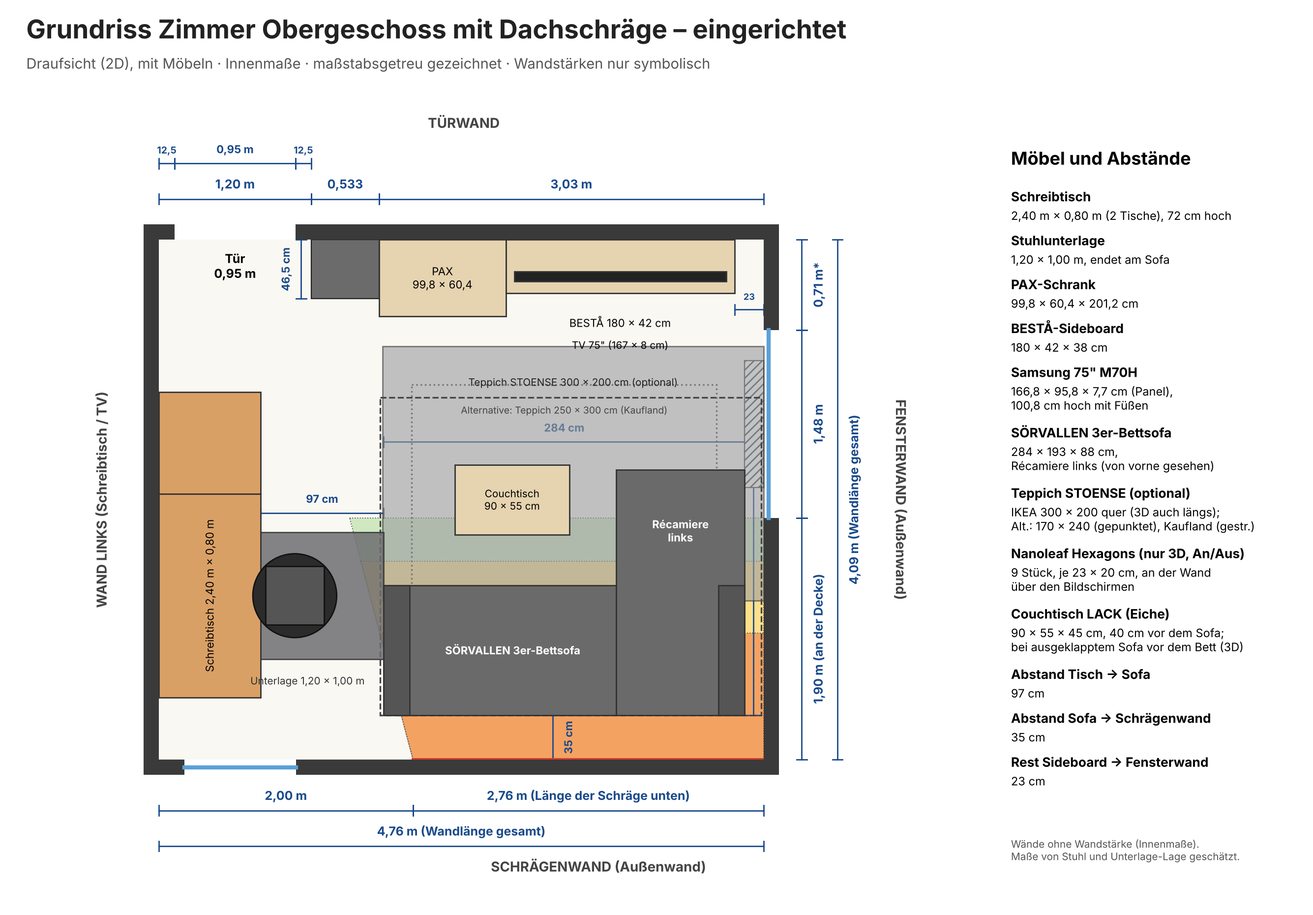
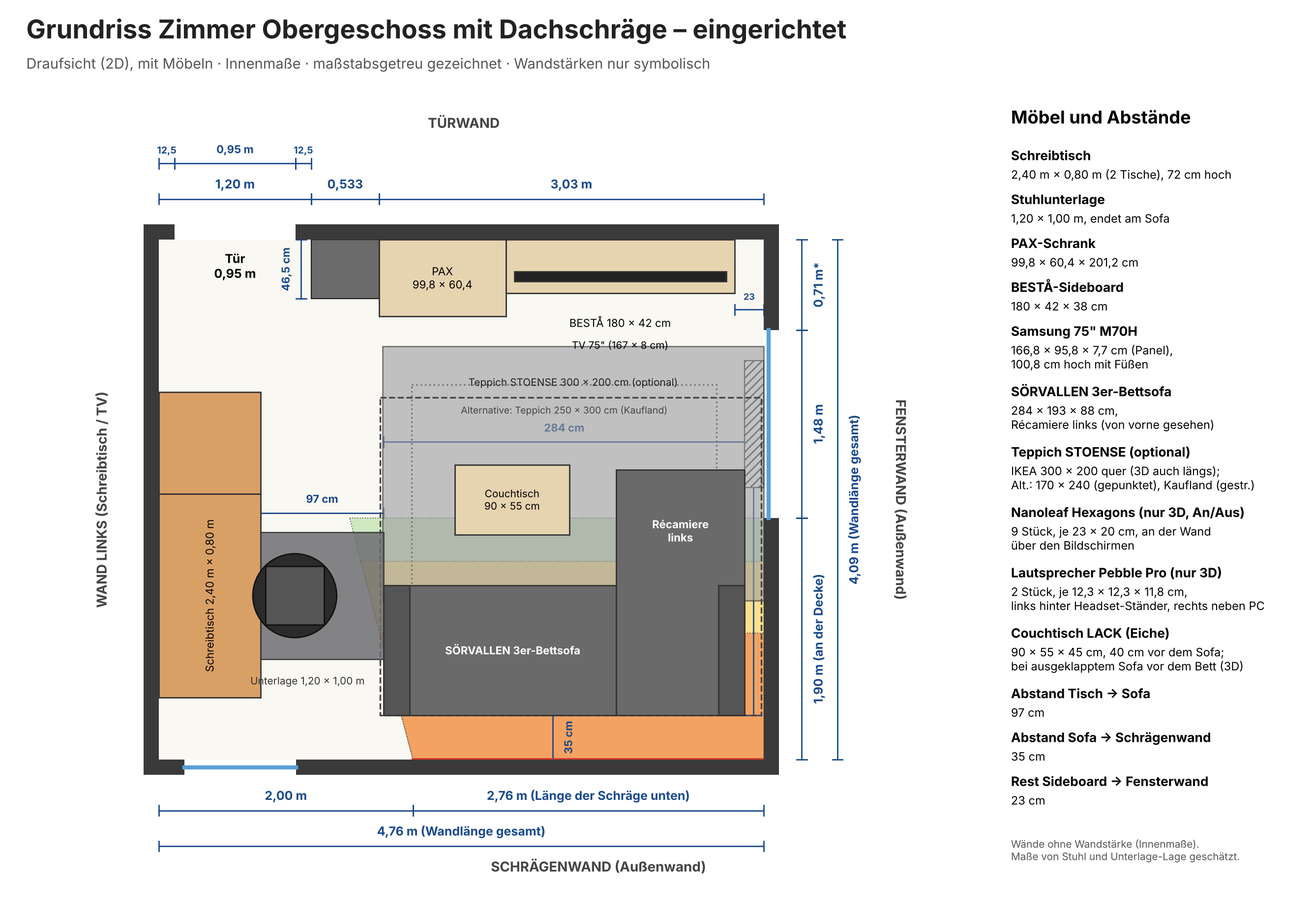
Creative Pebble Pro Lautsprecher (2 Stück, rote LED) auf dem Schreibtisch; Nanoleaf-Muster seitenrichtig gespiegelt; Plan-Legende ergänzt
Claude-Session: https://claude.ai/code/session_01Hf3Bkowp5NFKLbRns8Nosg

Changed region(s): [[0.7461, 0.1247, 0.9637, 0.8731], [0.9015, 0.1871, 0.9326, 0.2183]]

diff --git a/eingerichtet_mobil.html b/eingerichtet_mobil.html
@@ -78,7 +78,7 @@ a.home:hover,a.home:focus-visible{border-color:var(--accent);outline:none}
 <div class="bar" id="cats"><span class="lab">Maße zeigen für:</span></div>
 <div id="stage"><canvas id="c"></canvas>
 <div id="legend"><div><i style="background:#f4a261"></i>unter 1,50 m</div><div><i style="background:#ffe08a"></i>1,50 – 2,00 m</div><div><i style="background:#cfe8c0"></i>2,00 – 2,30 m</div></div></div>
-<footer><details><summary>Hinweise</summary>* geschätzt: Raumhöhe 2,30 m, Aufteilung des Schreibtischs (1,60 m + 0,80 m), Form der Tischbeine, Sideboard steht auf dem Boden (nicht aufgehängt), Breite des Fernseher-Rückgehäuses (Fernseher 75" steht auf seinen Standfüßen (5 cm), Gesamthöhe 138,8 cm, Lage des Panels auf den Füßen), Maße von Stuhl und Position der Unterlage, Aufbau des Sofas (Récamiere-Breite ≈ 1,02 m, Polster vereinfacht; bei ausgeklapptem Sofa Lage und Höhe der Schlaffläche), Teppiche (Lage und Größe, Ausrichtung des 200-×-300-cm-Teppichs), Nanoleaf-Hexagons (Muster nach deiner Vorlage, Farben nur beispielhaft, Fugen zwischen den Panels vereinfacht), Couchtisch (Plattendicke 5 cm, Beinquerschnitt 5 cm, Höhe der Ablage; Standort vor dem Sofa bzw. vor dem ausgeklappten Sofa), Fensterhöhen, Verlauf der Diagonale an der Schräge. Wände ohne Wandstärke (Innenmaße). Von außen sind Wände und Decke durchsichtig (Schnittmodell).</details></footer>
+<footer><details><summary>Hinweise</summary>* geschätzt: Raumhöhe 2,30 m, Aufteilung des Schreibtischs (1,60 m + 0,80 m), Form der Tischbeine, Sideboard steht auf dem Boden (nicht aufgehängt), Breite des Fernseher-Rückgehäuses (Fernseher 75" steht auf seinen Standfüßen (5 cm), Gesamthöhe 138,8 cm, Lage des Panels auf den Füßen), Maße von Stuhl und Position der Unterlage, Aufbau des Sofas (Récamiere-Breite ≈ 1,02 m, Polster vereinfacht; bei ausgeklapptem Sofa Lage und Höhe der Schlaffläche), Teppiche (Lage und Größe, Ausrichtung des 200-×-300-cm-Teppichs), Lautsprecher (Größe 12,3 × 12,3 × 11,8 cm, Position), Nanoleaf-Hexagons (Muster nach deiner Vorlage, Farben nur beispielhaft, Fugen zwischen den Panels vereinfacht), Couchtisch (Plattendicke 5 cm, Beinquerschnitt 5 cm, Höhe der Ablage; Standort vor dem Sofa bzw. vor dem ausgeklappten Sofa), Fensterhöhen, Verlauf der Diagonale an der Schräge. Wände ohne Wandstärke (Innenmaße). Von außen sind Wände und Decke durchsichtig (Schnittmodell).</details></footer>
 <script src="three.min.js"></script><script>window.THREE||document.write('<script src="https://cdnjs.cloudflare.com/ajax/libs/three.js/r128/three.min.js"><\/script>')</script>
 <script>
 (function(){
@@ -501,15 +501,32 @@ cat='tisch';
   var fr=cv(256,300,function(g,w,h){g.fillStyle='#0b0b0d';g.fillRect(0,0,w,h);g.fillStyle='#17171b';for(var i=0;i<h;i+=8){g.fillRect(0,i,w,3);}g.fillStyle='#ff1a1a';g.fillRect(w-10,0,6,h);g.fillRect(0,0,4,h);});
   var fm=new THREE.Mesh(new THREE.PlaneGeometry(2*hx,cz1-cz0),new THREE.MeshBasicMaterial({map:fr}));fm.rotation.y=Math.PI;fm.position.set(0,(cz0+cz1)/2,-hy-0.001);pg.add(fm);
 })();
+// Lautsprecher Creative Pebble Pro (2 Stück), je 123 x 123 x 118 mm laut PC-Welt; rote LED im Fußring. Links hinter der Headset-Ladestation, rechts zwischen PC und rechtem Bildschirm.
+(function(){
+  var DZ=0.72,RS=0.0615;
+  function spk(x,y){
+    var g=new THREE.Group();
+    var body=new THREE.Mesh(new THREE.SphereGeometry(RS,24,16),new THREE.MeshLambertMaterial({color:0x121214}));body.scale.set(1,0.96,1);body.position.y=0.057;g.add(body);
+    var ax=new THREE.Group();ax.position.y=0.057;ax.rotation.z=-Math.PI/4;g.add(ax);   // Blickrichtung: zum Nutzer, schräg nach oben
+    function part(geo,col,h){var m=new THREE.Mesh(geo,new THREE.MeshLambertMaterial({color:col}));m.position.y=h;ax.add(m);}
+    part(new THREE.CylinderGeometry(0.044,0.047,0.006,28),0x26262a,RS-0.003);   // Blende
+    part(new THREE.CylinderGeometry(0.030,0.026,0.004,28),0xc98f6a,RS+0.0005);   // Membran (kupferfarben)
+    part(new THREE.CylinderGeometry(0.010,0.010,0.005,16),0xe3b690,RS+0.0025);   // Kappe
+    var ring=new THREE.Mesh(new THREE.TorusGeometry(0.046,0.0035,8,36),new THREE.MeshBasicMaterial({color:0xff2a2a}));ring.rotation.x=Math.PI/2;ring.position.y=0.004;g.add(ring);   // rote LED
+    var glow=new THREE.Mesh(new THREE.CircleGeometry(0.085,32),new THREE.MeshBasicMaterial({color:0xff2a2a,transparent:true,opacity:0.22}));glow.rotation.x=-Math.PI/2;glow.position.y=0.0015;g.add(glow);
+    g.position.copy(P(x,y,DZ));room.add(g);
+  }
+  spk(0.12,3.46);spk(0.13,2.12);
+})();
 cat='led';
 // Nanoleaf Shapes Ultra Black Hexagons (9 Stück), Muster nach Vorlage: je 23 x 20 cm (Spitze zu Spitze x Kante zu Kante), ca. 1 cm tief, an der Wand über den Bildschirmen
 var ledObjs=[],LEDLB=[];
 (function(){
   var R=0.1135,TH=0.010,SPX=0.1725,SPY=0.20,YC=2.80,ZC=1.90;
   var HEX=[[0,0,0x14141a],[1,0,0x5a2a98],[1,1,0x6a2fb0],[0,2,0x14141a],[2,1,0x9a3fd6],[3,0,0x6a5af0],[4,0,0x4a78ee],[5,-1,0x3fb4ea],[6,-1,0x2fe0c4]];
-  var y0=YC-6*SPX/2,side=new THREE.MeshLambertMaterial({color:0x0b0b0e});
+  var y0=YC+6*SPX/2,side=new THREE.MeshLambertMaterial({color:0x0b0b0e});
   HEX.forEach(function(h){
-    var q=h[0],r=h[1],y=y0+q*SPX,z=ZC-SPY*(r+((q&1)?0.5:0));
+    var q=h[0],r=h[1],y=y0-q*SPX,z=ZC-SPY*(r+((q&1)?0.5:0));
     var m=new THREE.Mesh(new THREE.CylinderGeometry(R,R,TH,6),[side,side,new THREE.MeshBasicMaterial({color:h[2]})]);
     m.rotation.z=Math.PI/2;m.position.copy(P(TH/2+0.001,y,z));room.add(m);ledObjs.push(m);
   });
@@ -518,11 +535,11 @@ var ledObjs=[],LEDLB=[];
   function s(a,b){v.push.apply(v,P(XL,a[0],a[1]).toArray());v.push.apply(v,P(XL,b[0],b[1]).toArray());}
   function hy(z,ya,yb){s([ya,z],[yb,z]);s([ya,z-0.04],[ya,z+0.04]);s([yb,z-0.04],[yb,z+0.04]);}
   function vz(yy,za,zb){s([yy,za],[yy,zb]);s([yy-0.04,za],[yy+0.04,za]);s([yy-0.04,zb],[yy+0.04,zb]);}
-  var yl=y0-0.115,yr=y0+6*SPX+0.115;
-  hy(1.33,yl,yr);vz(yr+0.07,1.40,2.20);hy(2.10,yr-0.23,yr);vz(y0+6*SPX,2.00,2.20);vz(2.33,1.17,1.40);
+  var yl=y0-6*SPX-0.115,yr=y0+0.115;
+  hy(1.33,yl,yr);vz(yl-0.07,1.40,2.20);hy(2.10,yl,yl+0.23);vz(y0-6*SPX,2.00,2.20);vz(3.27,1.17,1.40);
   var gd=new THREE.BufferGeometry();gd.setAttribute('position',new THREE.Float32BufferAttribute(v,3));
   room.add(new THREE.LineSegments(gd,new THREE.LineBasicMaterial({color:0xd2691e})));
-  LEDLB.push(['Nanoleaf Hexagons: 9 Stück, je 23 × 20 cm',0.05,y0+3*SPX,2.27],['Breite gesamt 126,5 cm',0.05,YC,1.36],['Höhe gesamt 80 cm (1,40 – 2,20 m über Boden)',0.05,yr+0.07,1.80],['23 cm',0.05,y0+6*SPX,2.135],['20 cm',0.05,y0+6*SPX,2.02],['23 cm bis Monitor',0.05,2.33,1.25]);
+  LEDLB.push(['Nanoleaf Hexagons: 9 Stück, je 23 × 20 cm',0.05,y0-3*SPX,2.27],['Breite gesamt 126,5 cm',0.05,YC,1.36],['Höhe gesamt 80 cm (1,40 – 2,20 m über Boden)',0.05,yl-0.07,1.80],['23 cm',0.05,y0-6*SPX,2.135],['20 cm',0.05,y0-6*SPX,2.02],['23 cm bis Monitor',0.05,3.27,1.25]);
 })();
 cat='raum';
 // Beschriftungen

diff --git a/interaktiv_mobil.html b/interaktiv_mobil.html
@@ -78,7 +78,7 @@ a.home:hover,a.home:focus-visible{border-color:var(--accent);outline:none}
 <div class="bar" id="cats"><span class="lab">Maße zeigen für:</span></div>
 <div id="stage"><canvas id="c"></canvas>
 <div id="legend"><div><i style="background:#f4a261"></i>unter 1,50 m</div><div><i style="background:#ffe08a"></i>1,50 – 2,00 m</div><div><i style="background:#cfe8c0"></i>2,00 – 2,30 m</div></div></div>
-<footer><details><summary>Hinweise</summary>* geschätzt: Raumhöhe 2,30 m, Aufteilung des Schreibtischs (1,60 m + 0,80 m), Form der Tischbeine, Sideboard steht auf dem Boden (nicht aufgehängt), Breite des Fernseher-Rückgehäuses (Fernseher 75" steht auf seinen Standfüßen (5 cm), Gesamthöhe 138,8 cm, Lage des Panels auf den Füßen), Maße von Stuhl und Position der Unterlage, Aufbau des Sofas (Récamiere-Breite ≈ 1,02 m, Polster vereinfacht; bei ausgeklapptem Sofa Lage und Höhe der Schlaffläche), Teppiche (Lage und Größe, Ausrichtung des 200-×-300-cm-Teppichs), Nanoleaf-Hexagons (Muster nach deiner Vorlage, Farben nur beispielhaft, Fugen zwischen den Panels vereinfacht), Couchtisch (Plattendicke 5 cm, Beinquerschnitt 5 cm, Höhe der Ablage; Standort vor dem Sofa bzw. vor dem ausgeklappten Sofa), Fensterhöhen, Verlauf der Diagonale an der Schräge. Wände ohne Wandstärke (Innenmaße). Von außen sind Wände und Decke durchsichtig (Schnittmodell).</details></footer>
+<footer><details><summary>Hinweise</summary>* geschätzt: Raumhöhe 2,30 m, Aufteilung des Schreibtischs (1,60 m + 0,80 m), Form der Tischbeine, Sideboard steht auf dem Boden (nicht aufgehängt), Breite des Fernseher-Rückgehäuses (Fernseher 75" steht auf seinen Standfüßen (5 cm), Gesamthöhe 138,8 cm, Lage des Panels auf den Füßen), Maße von Stuhl und Position der Unterlage, Aufbau des Sofas (Récamiere-Breite ≈ 1,02 m, Polster vereinfacht; bei ausgeklapptem Sofa Lage und Höhe der Schlaffläche), Teppiche (Lage und Größe, Ausrichtung des 200-×-300-cm-Teppichs), Lautsprecher (Größe 12,3 × 12,3 × 11,8 cm, Position), Nanoleaf-Hexagons (Muster nach deiner Vorlage, Farben nur beispielhaft, Fugen zwischen den Panels vereinfacht), Couchtisch (Plattendicke 5 cm, Beinquerschnitt 5 cm, Höhe der Ablage; Standort vor dem Sofa bzw. vor dem ausgeklappten Sofa), Fensterhöhen, Verlauf der Diagonale an der Schräge. Wände ohne Wandstärke (Innenmaße). Von außen sind Wände und Decke durchsichtig (Schnittmodell).</details></footer>
 <script src="three.min.js"></script><script>window.THREE||document.write('<script src="https://cdnjs.cloudflare.com/ajax/libs/three.js/r128/three.min.js"><\/script>')</script>
 <script>
 (function(){
@@ -501,15 +501,32 @@ cat='tisch';
   var fr=cv(256,300,function(g,w,h){g.fillStyle='#0b0b0d';g.fillRect(0,0,w,h);g.fillStyle='#17171b';for(var i=0;i<h;i+=8){g.fillRect(0,i,w,3);}g.fillStyle='#ff1a1a';g.fillRect(w-10,0,6,h);g.fillRect(0,0,4,h);});
   var fm=new THREE.Mesh(new THREE.PlaneGeometry(2*hx,cz1-cz0),new THREE.MeshBasicMaterial({map:fr}));fm.rotation.y=Math.PI;fm.position.set(0,(cz0+cz1)/2,-hy-0.001);pg.add(fm);
 })();
+// Lautsprecher Creative Pebble Pro (2 Stück), je 123 x 123 x 118 mm laut PC-Welt; rote LED im Fußring. Links hinter der Headset-Ladestation, rechts zwischen PC und rechtem Bildschirm.
+(function(){
+  var DZ=0.72,RS=0.0615;
+  function spk(x,y){
+    var g=new THREE.Group();
+    var body=new THREE.Mesh(new THREE.SphereGeometry(RS,24,16),new THREE.MeshLambertMaterial({color:0x121214}));body.scale.set(1,0.96,1);body.position.y=0.057;g.add(body);
+    var ax=new THREE.Group();ax.position.y=0.057;ax.rotation.z=-Math.PI/4;g.add(ax);   // Blickrichtung: zum Nutzer, schräg nach oben
+    function part(geo,col,h){var m=new THREE.Mesh(geo,new THREE.MeshLambertMaterial({color:col}));m.position.y=h;ax.add(m);}
+    part(new THREE.CylinderGeometry(0.044,0.047,0.006,28),0x26262a,RS-0.003);   // Blende
+    part(new THREE.CylinderGeometry(0.030,0.026,0.004,28),0xc98f6a,RS+0.0005);   // Membran (kupferfarben)
+    part(new THREE.CylinderGeometry(0.010,0.010,0.005,16),0xe3b690,RS+0.0025);   // Kappe
+    var ring=new THREE.Mesh(new THREE.TorusGeometry(0.046,0.0035,8,36),new THREE.MeshBasicMaterial({color:0xff2a2a}));ring.rotation.x=Math.PI/2;ring.position.y=0.004;g.add(ring);   // rote LED
+    var glow=new THREE.Mesh(new THREE.CircleGeometry(0.085,32),new THREE.MeshBasicMaterial({color:0xff2a2a,transparent:true,opacity:0.22}));glow.rotation.x=-Math.PI/2;glow.position.y=0.0015;g.add(glow);
+    g.position.copy(P(x,y,DZ));room.add(g);
+  }
+  spk(0.12,3.46);spk(0.13,2.12);
+})();
 cat='led';
 // Nanoleaf Shapes Ultra Black Hexagons (9 Stück), Muster nach Vorlage: je 23 x 20 cm (Spitze zu Spitze x Kante zu Kante), ca. 1 cm tief, an der Wand über den Bildschirmen
 var ledObjs=[],LEDLB=[];
 (function(){
   var R=0.1135,TH=0.010,SPX=0.1725,SPY=0.20,YC=2.80,ZC=1.90;
   var HEX=[[0,0,0x14141a],[1,0,0x5a2a98],[1,1,0x6a2fb0],[0,2,0x14141a],[2,1,0x9a3fd6],[3,0,0x6a5af0],[4,0,0x4a78ee],[5,-1,0x3fb4ea],[6,-1,0x2fe0c4]];
-  var y0=YC-6*SPX/2,side=new THREE.MeshLambertMaterial({color:0x0b0b0e});
+  var y0=YC+6*SPX/2,side=new THREE.MeshLambertMaterial({color:0x0b0b0e});
   HEX.forEach(function(h){
-    var q=h[0],r=h[1],y=y0+q*SPX,z=ZC-SPY*(r+((q&1)?0.5:0));
+    var q=h[0],r=h[1],y=y0-q*SPX,z=ZC-SPY*(r+((q&1)?0.5:0));
     var m=new THREE.Mesh(new THREE.CylinderGeometry(R,R,TH,6),[side,side,new THREE.MeshBasicMaterial({color:h[2]})]);
     m.rotation.z=Math.PI/2;m.position.copy(P(TH/2+0.001,y,z));room.add(m);ledObjs.push(m);
   });
@@ -518,11 +535,11 @@ var ledObjs=[],LEDLB=[];
   function s(a,b){v.push.apply(v,P(XL,a[0],a[1]).toArray());v.push.apply(v,P(XL,b[0],b[1]).toArray());}
   function hy(z,ya,yb){s([ya,z],[yb,z]);s([ya,z-0.04],[ya,z+0.04]);s([yb,z-0.04],[yb,z+0.04]);}
   function vz(yy,za,zb){s([yy,za],[yy,zb]);s([yy-0.04,za],[yy+0.04,za]);s([yy-0.04,zb],[yy+0.04,zb]);}
-  var yl=y0-0.115,yr=y0+6*SPX+0.115;
-  hy(1.33,yl,yr);vz(yr+0.07,1.40,2.20);hy(2.10,yr-0.23,yr);vz(y0+6*SPX,2.00,2.20);vz(2.33,1.17,1.40);
+  var yl=y0-6*SPX-0.115,yr=y0+0.115;
+  hy(1.33,yl,yr);vz(yl-0.07,1.40,2.20);hy(2.10,yl,yl+0.23);vz(y0-6*SPX,2.00,2.20);vz(3.27,1.17,1.40);
   var gd=new THREE.BufferGeometry();gd.setAttribute('position',new THREE.Float32BufferAttribute(v,3));
   room.add(new THREE.LineSegments(gd,new THREE.LineBasicMaterial({color:0xd2691e})));
-  LEDLB.push(['Nanoleaf Hexagons: 9 Stück, je 23 × 20 cm',0.05,y0+3*SPX,2.27],['Breite gesamt 126,5 cm',0.05,YC,1.36],['Höhe gesamt 80 cm (1,40 – 2,20 m über Boden)',0.05,yr+0.07,1.80],['23 cm',0.05,y0+6*SPX,2.135],['20 cm',0.05,y0+6*SPX,2.02],['23 cm bis Monitor',0.05,2.33,1.25]);
+  LEDLB.push(['Nanoleaf Hexagons: 9 Stück, je 23 × 20 cm',0.05,y0-3*SPX,2.27],['Breite gesamt 126,5 cm',0.05,YC,1.36],['Höhe gesamt 80 cm (1,40 – 2,20 m über Boden)',0.05,yl-0.07,1.80],['23 cm',0.05,y0-6*SPX,2.135],['20 cm',0.05,y0-6*SPX,2.02],['23 cm bis Monitor',0.05,3.27,1.25]);
 })();
 cat='raum';
 // Beschriftungen

diff --git a/eingerichtet.html b/eingerichtet.html
@@ -61,7 +61,7 @@ a.home:hover,a.home:focus-visible{border-color:var(--accent);outline:none}
 <div class="bar" id="cats"><span class="lab">Maße zeigen für:</span></div>
 <div id="stage"><canvas id="c"></canvas>
 <div id="legend"><div><i style="background:#f4a261"></i>unter 1,50 m</div><div><i style="background:#ffe08a"></i>1,50 – 2,00 m</div><div><i style="background:#cfe8c0"></i>2,00 – 2,30 m</div></div></div>
-<footer>* geschätzt: Raumhöhe 2,30 m, Aufteilung des Schreibtischs (1,60 m + 0,80 m), Form der Tischbeine, Sideboard steht auf dem Boden (nicht aufgehängt), Breite des Fernseher-Rückgehäuses (Fernseher 75" steht auf seinen Standfüßen (5 cm), Gesamthöhe 138,8 cm, Lage des Panels auf den Füßen), Maße von Stuhl und Position der Unterlage, Aufbau des Sofas (Récamiere-Breite ≈ 1,02 m, Polster vereinfacht; bei ausgeklapptem Sofa Lage und Höhe der Schlaffläche), Teppiche (Lage und Größe, Ausrichtung des 200-×-300-cm-Teppichs), Nanoleaf-Hexagons (Muster nach deiner Vorlage, Farben nur beispielhaft, Fugen zwischen den Panels vereinfacht), Couchtisch (Plattendicke 5 cm, Beinquerschnitt 5 cm, Höhe der Ablage; Standort vor dem Sofa bzw. vor dem ausgeklappten Sofa), Fensterhöhen, Verlauf der Diagonale an der Schräge. Wände ohne Wandstärke (Innenmaße). Von außen sind Wände und Decke durchsichtig (Schnittmodell).</footer>
+<footer>* geschätzt: Raumhöhe 2,30 m, Aufteilung des Schreibtischs (1,60 m + 0,80 m), Form der Tischbeine, Sideboard steht auf dem Boden (nicht aufgehängt), Breite des Fernseher-Rückgehäuses (Fernseher 75" steht auf seinen Standfüßen (5 cm), Gesamthöhe 138,8 cm, Lage des Panels auf den Füßen), Maße von Stuhl und Position der Unterlage, Aufbau des Sofas (Récamiere-Breite ≈ 1,02 m, Polster vereinfacht; bei ausgeklapptem Sofa Lage und Höhe der Schlaffläche), Teppiche (Lage und Größe, Ausrichtung des 200-×-300-cm-Teppichs), Lautsprecher (Größe 12,3 × 12,3 × 11,8 cm, Position), Nanoleaf-Hexagons (Muster nach deiner Vorlage, Farben nur beispielhaft, Fugen zwischen den Panels vereinfacht), Couchtisch (Plattendicke 5 cm, Beinquerschnitt 5 cm, Höhe der Ablage; Standort vor dem Sofa bzw. vor dem ausgeklappten Sofa), Fensterhöhen, Verlauf der Diagonale an der Schräge. Wände ohne Wandstärke (Innenmaße). Von außen sind Wände und Decke durchsichtig (Schnittmodell).</footer>
 <script src="three.min.js"></script><script>window.THREE||document.write('<script src="https://cdnjs.cloudflare.com/ajax/libs/three.js/r128/three.min.js"><\/script>')</script>
 <script>
 (function(){
@@ -484,15 +484,32 @@ cat='tisch';
   var fr=cv(256,300,function(g,w,h){g.fillStyle='#0b0b0d';g.fillRect(0,0,w,h);g.fillStyle='#17171b';for(var i=0;i<h;i+=8){g.fillRect(0,i,w,3);}g.fillStyle='#ff1a1a';g.fillRect(w-10,0,6,h);g.fillRect(0,0,4,h);});
   var fm=new THREE.Mesh(new THREE.PlaneGeometry(2*hx,cz1-cz0),new THREE.MeshBasicMaterial({map:fr}));fm.rotation.y=Math.PI;fm.position.set(0,(cz0+cz1)/2,-hy-0.001);pg.add(fm);
 })();
+// Lautsprecher Creative Pebble Pro (2 Stück), je 123 x 123 x 118 mm laut PC-Welt; rote LED im Fußring. Links hinter der Headset-Ladestation, rechts zwischen PC und rechtem Bildschirm.
+(function(){
+  var DZ=0.72,RS=0.0615;
+  function spk(x,y){
+    var g=new THREE.Group();
+    var body=new THREE.Mesh(new THREE.SphereGeometry(RS,24,16),new THREE.MeshLambertMaterial({color:0x121214}));body.scale.set(1,0.96,1);body.position.y=0.057;g.add(body);
+    var ax=new THREE.Group();ax.position.y=0.057;ax.rotation.z=-Math.PI/4;g.add(ax);   // Blickrichtung: zum Nutzer, schräg nach oben
+    function part(geo,col,h){var m=new THREE.Mesh(geo,new THREE.MeshLambertMaterial({color:col}));m.position.y=h;ax.add(m);}
+    part(new THREE.CylinderGeometry(0.044,0.047,0.006,28),0x26262a,RS-0.003);   // Blende
+    part(new THREE.CylinderGeometry(0.030,0.026,0.004,28),0xc98f6a,RS+0.0005);   // Membran (kupferfarben)
+    part(new THREE.CylinderGeometry(0.010,0.010,0.005,16),0xe3b690,RS+0.0025);   // Kappe
+    var ring=new THREE.Mesh(new THREE.TorusGeometry(0.046,0.0035,8,36),new THREE.MeshBasicMaterial({color:0xff2a2a}));ring.rotation.x=Math.PI/2;ring.position.y=0.004;g.add(ring);   // rote LED
+    var glow=new THREE.Mesh(new THREE.CircleGeometry(0.085,32),new THREE.MeshBasicMaterial({color:0xff2a2a,transparent:true,opacity:0.22}));glow.rotation.x=-Math.PI/2;glow.position.y=0.0015;g.add(glow);
+    g.position.copy(P(x,y,DZ));room.add(g);
+  }
+  spk(0.12,3.46);spk(0.13,2.12);
+})();
 cat='led';
 // Nanoleaf Shapes Ultra Black Hexagons (9 Stück), Muster nach Vorlage: je 23 x 20 cm (Spitze zu Spitze x Kante zu Kante), ca. 1 cm tief, an der Wand über den Bildschirmen
 var ledObjs=[],LEDLB=[];
 (function(){
   var R=0.1135,TH=0.010,SPX=0.1725,SPY=0.20,YC=2.80,ZC=1.90;
   var HEX=[[0,0,0x14141a],[1,0,0x5a2a98],[1,1,0x6a2fb0],[0,2,0x14141a],[2,1,0x9a3fd6],[3,0,0x6a5af0],[4,0,0x4a78ee],[5,-1,0x3fb4ea],[6,-1,0x2fe0c4]];
-  var y0=YC-6*SPX/2,side=new THREE.MeshLambertMaterial({color:0x0b0b0e});
+  var y0=YC+6*SPX/2,side=new THREE.MeshLambertMaterial({color:0x0b0b0e});
   HEX.forEach(function(h){
-    var q=h[0],r=h[1],y=y0+q*SPX,z=ZC-SPY*(r+((q&1)?0.5:0));
+    var q=h[0],r=h[1],y=y0-q*SPX,z=ZC-SPY*(r+((q&1)?0.5:0));
     var m=new THREE.Mesh(new THREE.CylinderGeometry(R,R,TH,6),[side,side,new THREE.MeshBasicMaterial({color:h[2]})]);
     m.rotation.z=Math.PI/2;m.position.copy(P(TH/2+0.001,y,z));room.add(m);ledObjs.push(m);
   });
@@ -501,11 +518,11 @@ var ledObjs=[],LEDLB=[];
   function s(a,b){v.push.apply(v,P(XL,a[0],a[1]).toArray());v.push.apply(v,P(XL,b[0],b[1]).toArray());}
   function hy(z,ya,yb){s([ya,z],[yb,z]);s([ya,z-0.04],[ya,z+0.04]);s([yb,z-0.04],[yb,z+0.04]);}
   function vz(yy,za,zb){s([yy,za],[yy,zb]);s([yy-0.04,za],[yy+0.04,za]);s([yy-0.04,zb],[yy+0.04,zb]);}
-  var yl=y0-0.115,yr=y0+6*SPX+0.115;
-  hy(1.33,yl,yr);vz(yr+0.07,1.40,2.20);hy(2.10,yr-0.23,yr);vz(y0+6*SPX,2.00,2.20);vz(2.33,1.17,1.40);
+  var yl=y0-6*SPX-0.115,yr=y0+0.115;
+  hy(1.33,yl,yr);vz(yl-0.07,1.40,2.20);hy(2.10,yl,yl+0.23);vz(y0-6*SPX,2.00,2.20);vz(3.27,1.17,1.40);
   var gd=new THREE.BufferGeometry();gd.setAttribute('position',new THREE.Float32BufferAttribute(v,3));
   room.add(new THREE.LineSegments(gd,new THREE.LineBasicMaterial({color:0xd2691e})));
-  LEDLB.push(['Nanoleaf Hexagons: 9 Stück, je 23 × 20 cm',0.05,y0+3*SPX,2.27],['Breite gesamt 126,5 cm',0.05,YC,1.36],['Höhe gesamt 80 cm (1,40 – 2,20 m über Boden)',0.05,yr+0.07,1.80],['23 cm',0.05,y0+6*SPX,2.135],['20 cm',0.05,y0+6*SPX,2.02],['23 cm bis Monitor',0.05,2.33,1.25]);
+  LEDLB.push(['Nanoleaf Hexagons: 9 Stück, je 23 × 20 cm',0.05,y0-3*SPX,2.27],['Breite gesamt 126,5 cm',0.05,YC,1.36],['Höhe gesamt 80 cm (1,40 – 2,20 m über Boden)',0.05,yl-0.07,1.80],['23 cm',0.05,y0-6*SPX,2.135],['20 cm',0.05,y0-6*SPX,2.02],['23 cm bis Monitor',0.05,3.27,1.25]);
 })();
 cat='raum';
 // Beschriftungen

diff --git a/interaktiv.html b/interaktiv.html
@@ -61,7 +61,7 @@ a.home:hover,a.home:focus-visible{border-color:var(--accent);outline:none}
 <div class="bar" id="cats"><span class="lab">Maße zeigen für:</span></div>
 <div id="stage"><canvas id="c"></canvas>
 <div id="legend"><div><i style="background:#f4a261"></i>unter 1,50 m</div><div><i style="background:#ffe08a"></i>1,50 – 2,00 m</div><div><i style="background:#cfe8c0"></i>2,00 – 2,30 m</div></div></div>
-<footer>* geschätzt: Raumhöhe 2,30 m, Aufteilung des Schreibtischs (1,60 m + 0,80 m), Form der Tischbeine, Sideboard steht auf dem Boden (nicht aufgehängt), Breite des Fernseher-Rückgehäuses (Fernseher 75" steht auf seinen Standfüßen (5 cm), Gesamthöhe 138,8 cm, Lage des Panels auf den Füßen), Maße von Stuhl und Position der Unterlage, Aufbau des Sofas (Récamiere-Breite ≈ 1,02 m, Polster vereinfacht; bei ausgeklapptem Sofa Lage und Höhe der Schlaffläche), Teppiche (Lage und Größe, Ausrichtung des 200-×-300-cm-Teppichs), Nanoleaf-Hexagons (Muster nach deiner Vorlage, Farben nur beispielhaft, Fugen zwischen den Panels vereinfacht), Couchtisch (Plattendicke 5 cm, Beinquerschnitt 5 cm, Höhe der Ablage; Standort vor dem Sofa bzw. vor dem ausgeklappten Sofa), Fensterhöhen, Verlauf der Diagonale an der Schräge. Wände ohne Wandstärke (Innenmaße). Von außen sind Wände und Decke durchsichtig (Schnittmodell).</footer>
+<footer>* geschätzt: Raumhöhe 2,30 m, Aufteilung des Schreibtischs (1,60 m + 0,80 m), Form der Tischbeine, Sideboard steht auf dem Boden (nicht aufgehängt), Breite des Fernseher-Rückgehäuses (Fernseher 75" steht auf seinen Standfüßen (5 cm), Gesamthöhe 138,8 cm, Lage des Panels auf den Füßen), Maße von Stuhl und Position der Unterlage, Aufbau des Sofas (Récamiere-Breite ≈ 1,02 m, Polster vereinfacht; bei ausgeklapptem Sofa Lage und Höhe der Schlaffläche), Teppiche (Lage und Größe, Ausrichtung des 200-×-300-cm-Teppichs), Lautsprecher (Größe 12,3 × 12,3 × 11,8 cm, Position), Nanoleaf-Hexagons (Muster nach deiner Vorlage, Farben nur beispielhaft, Fugen zwischen den Panels vereinfacht), Couchtisch (Plattendicke 5 cm, Beinquerschnitt 5 cm, Höhe der Ablage; Standort vor dem Sofa bzw. vor dem ausgeklappten Sofa), Fensterhöhen, Verlauf der Diagonale an der Schräge. Wände ohne Wandstärke (Innenmaße). Von außen sind Wände und Decke durchsichtig (Schnittmodell).</footer>
 <script src="three.min.js"></script><script>window.THREE||document.write('<script src="https://cdnjs.cloudflare.com/ajax/libs/three.js/r128/three.min.js"><\/script>')</script>
 <script>
 (function(){
@@ -484,15 +484,32 @@ cat='tisch';
   var fr=cv(256,300,function(g,w,h){g.fillStyle='#0b0b0d';g.fillRect(0,0,w,h);g.fillStyle='#17171b';for(var i=0;i<h;i+=8){g.fillRect(0,i,w,3);}g.fillStyle='#ff1a1a';g.fillRect(w-10,0,6,h);g.fillRect(0,0,4,h);});
   var fm=new THREE.Mesh(new THREE.PlaneGeometry(2*hx,cz1-cz0),new THREE.MeshBasicMaterial({map:fr}));fm.rotation.y=Math.PI;fm.position.set(0,(cz0+cz1)/2,-hy-0.001);pg.add(fm);
 })();
+// Lautsprecher Creative Pebble Pro (2 Stück), je 123 x 123 x 118 mm laut PC-Welt; rote LED im Fußring. Links hinter der Headset-Ladestation, rechts zwischen PC und rechtem Bildschirm.
+(function(){
+  var DZ=0.72,RS=0.0615;
+  function spk(x,y){
+    var g=new THREE.Group();
+    var body=new THREE.Mesh(new THREE.SphereGeometry(RS,24,16),new THREE.MeshLambertMaterial({color:0x121214}));body.scale.set(1,0.96,1);body.position.y=0.057;g.add(body);
+    var ax=new THREE.Group();ax.position.y=0.057;ax.rotation.z=-Math.PI/4;g.add(ax);   // Blickrichtung: zum Nutzer, schräg nach oben
+    function part(geo,col,h){var m=new THREE.Mesh(geo,new THREE.MeshLambertMaterial({color:col}));m.position.y=h;ax.add(m);}
+    part(new THREE.CylinderGeometry(0.044,0.047,0.006,28),0x26262a,RS-0.003);   // Blende
+    part(new THREE.CylinderGeometry(0.030,0.026,0.004,28),0xc98f6a,RS+0.0005);   // Membran (kupferfarben)
+    part(new THREE.CylinderGeometry(0.010,0.010,0.005,16),0xe3b690,RS+0.0025);   // Kappe
+    var ring=new THREE.Mesh(new THREE.TorusGeometry(0.046,0.0035,8,36),new THREE.MeshBasicMaterial({color:0xff2a2a}));ring.rotation.x=Math.PI/2;ring.position.y=0.004;g.add(ring);   // rote LED
+    var glow=new THREE.Mesh(new THREE.CircleGeometry(0.085,32),new THREE.MeshBasicMaterial({color:0xff2a2a,transparent:true,opacity:0.22}));glow.rotation.x=-Math.PI/2;glow.position.y=0.0015;g.add(glow);
+    g.position.copy(P(x,y,DZ));room.add(g);
+  }
+  spk(0.12,3.46);spk(0.13,2.12);
+})();
 cat='led';
 // Nanoleaf Shapes Ultra Black Hexagons (9 Stück), Muster nach Vorlage: je 23 x 20 cm (Spitze zu Spitze x Kante zu Kante), ca. 1 cm tief, an der Wand über den Bildschirmen
 var ledObjs=[],LEDLB=[];
 (function(){
   var R=0.1135,TH=0.010,SPX=0.1725,SPY=0.20,YC=2.80,ZC=1.90;
   var HEX=[[0,0,0x14141a],[1,0,0x5a2a98],[1,1,0x6a2fb0],[0,2,0x14141a],[2,1,0x9a3fd6],[3,0,0x6a5af0],[4,0,0x4a78ee],[5,-1,0x3fb4ea],[6,-1,0x2fe0c4]];
-  var y0=YC-6*SPX/2,side=new THREE.MeshLambertMaterial({color:0x0b0b0e});
+  var y0=YC+6*SPX/2,side=new THREE.MeshLambertMaterial({color:0x0b0b0e});
   HEX.forEach(function(h){
-    var q=h[0],r=h[1],y=y0+q*SPX,z=ZC-SPY*(r+((q&1)?0.5:0));
+    var q=h[0],r=h[1],y=y0-q*SPX,z=ZC-SPY*(r+((q&1)?0.5:0));
     var m=new THREE.Mesh(new THREE.CylinderGeometry(R,R,TH,6),[side,side,new THREE.MeshBasicMaterial({color:h[2]})]);
     m.rotation.z=Math.PI/2;m.position.copy(P(TH/2+0.001,y,z));room.add(m);ledObjs.push(m);
   });
@@ -501,11 +518,11 @@ var ledObjs=[],LEDLB=[];
   function s(a,b){v.push.apply(v,P(XL,a[0],a[1]).toArray());v.push.apply(v,P(XL,b[0],b[1]).toArray());}
   function hy(z,ya,yb){s([ya,z],[yb,z]);s([ya,z-0.04],[ya,z+0.04]);s([yb,z-0.04],[yb,z+0.04]);}
   function vz(yy,za,zb){s([yy,za],[yy,zb]);s([yy-0.04,za],[yy+0.04,za]);s([yy-0.04,zb],[yy+0.04,zb]);}
-  var yl=y0-0.115,yr=y0+6*SPX+0.115;
-  hy(1.33,yl,yr);vz(yr+0.07,1.40,2.20);hy(2.10,yr-0.23,yr);vz(y0+6*SPX,2.00,2.20);vz(2.33,1.17,1.40);
+  var yl=y0-6*SPX-0.115,yr=y0+0.115;
+  hy(1.33,yl,yr);vz(yl-0.07,1.40,2.20);hy(2.10,yl,yl+0.23);vz(y0-6*SPX,2.00,2.20);vz(3.27,1.17,1.40);
   var gd=new THREE.BufferGeometry();gd.setAttribute('position',new THREE.Float32BufferAttribute(v,3));
   room.add(new THREE.LineSegments(gd,new THREE.LineBasicMaterial({color:0xd2691e})));
-  LEDLB.push(['Nanoleaf Hexagons: 9 Stück, je 23 × 20 cm',0.05,y0+3*SPX,2.27],['Breite gesamt 126,5 cm',0.05,YC,1.36],['Höhe gesamt 80 cm (1,40 – 2,20 m über Boden)',0.05,yr+0.07,1.80],['23 cm',0.05,y0+6*SPX,2.135],['20 cm',0.05,y0+6*SPX,2.02],['23 cm bis Monitor',0.05,2.33,1.25]);
+  LEDLB.push(['Nanoleaf Hexagons: 9 Stück, je 23 × 20 cm',0.05,y0-3*SPX,2.27],['Breite gesamt 126,5 cm',0.05,YC,1.36],['Höhe gesamt 80 cm (1,40 – 2,20 m über Boden)',0.05,yl-0.07,1.80],['23 cm',0.05,y0-6*SPX,2.135],['20 cm',0.05,y0-6*SPX,2.02],['23 cm bis Monitor',0.05,3.27,1.25]);
 })();
 cat='raum';
 // Beschriftungen
